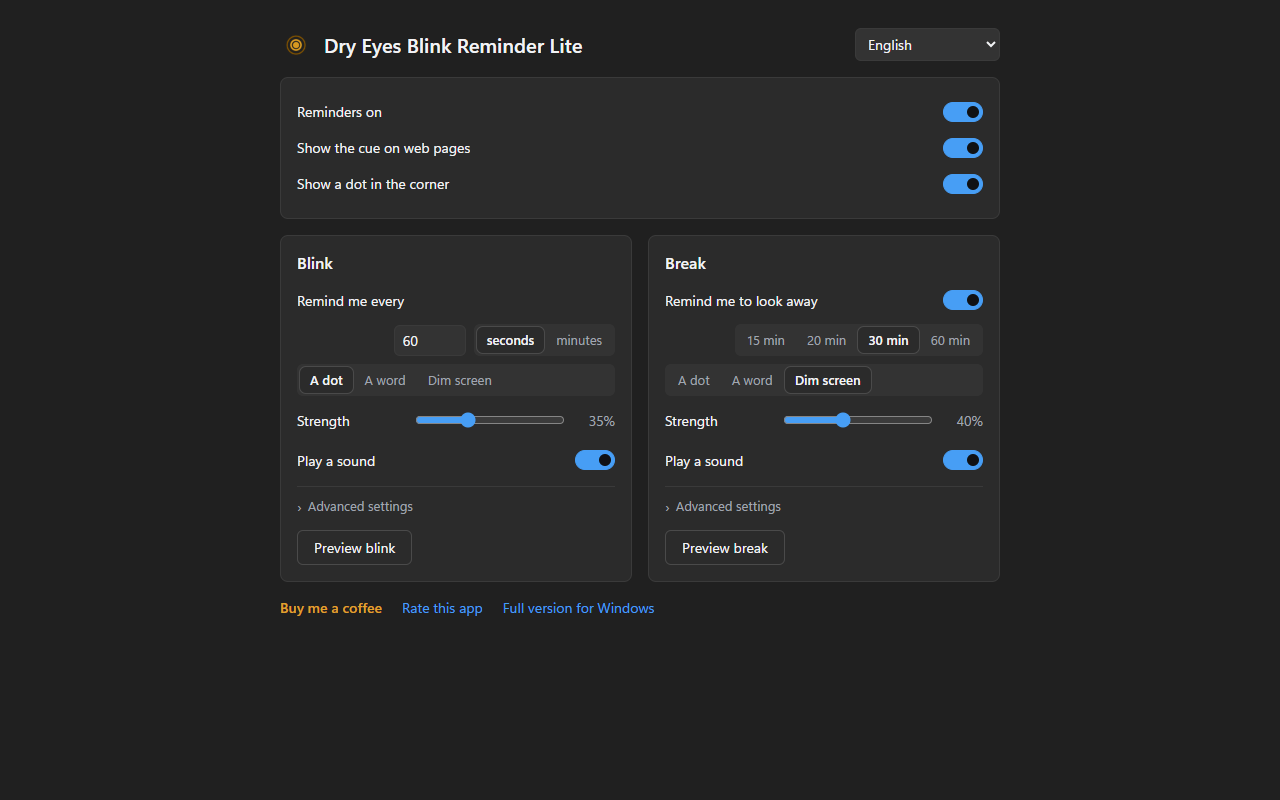
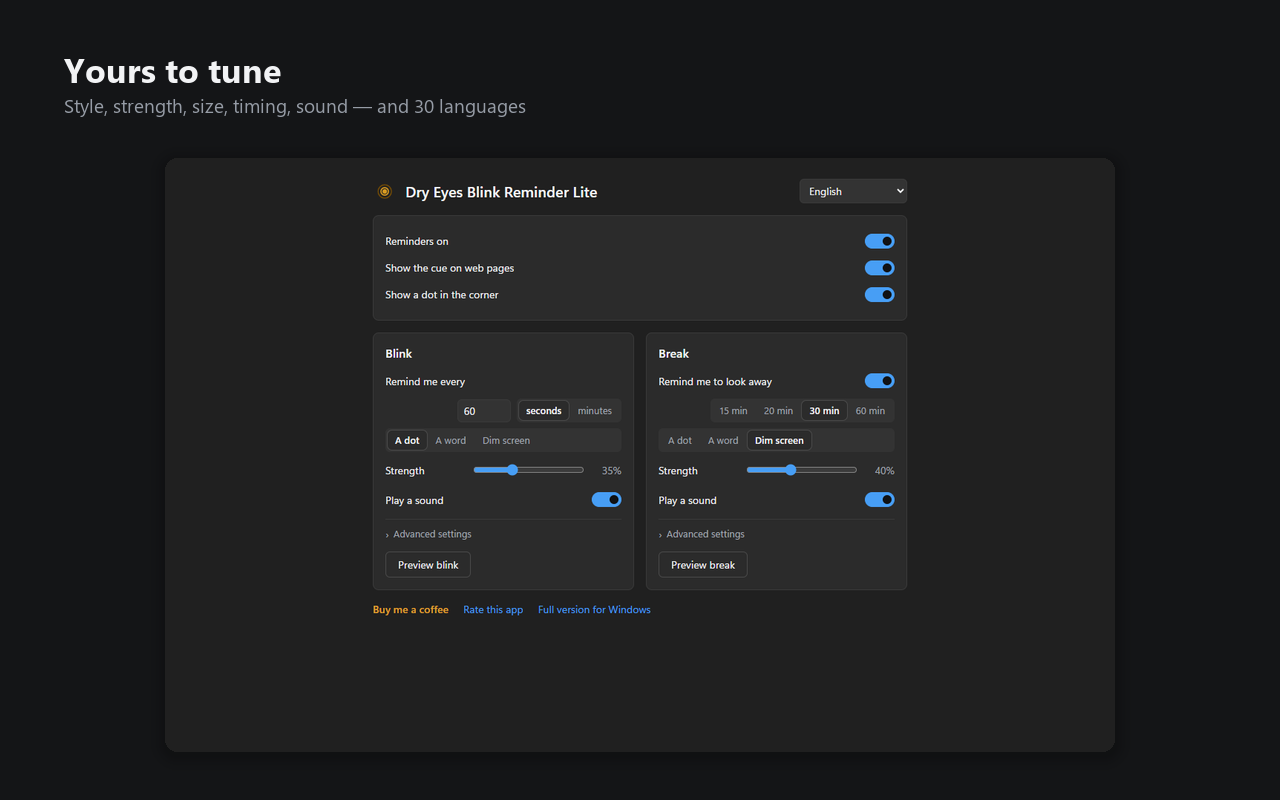
Store screenshots: say what each one is
A lime circle over an article could be anything. Each frame now sits on a
dark card under one line naming it, which is what the Windows listing does
by putting BLINK across its own.

The demo page is dark too. The cue's default is a 34% wash, which on a white
page is honestly faint and in a thumbnail invisible; on a dark page the same
default reads as it really is, and the text still shows through it, which is
the whole claim.

diff --git a/chrome/e2e/store-shots.js b/chrome/e2e/store-shots.js
@@ -7,7 +7,8 @@
 // access in its manifest, because a screenshot cannot click Chrome's prompt.
 //
 // It shoots the product, not a mock-up: the real cue, over a real page, at
-// the settings the extension actually ships with.
+// the settings the extension actually ships with. These are the raw frames;
+// store/make_chrome_assets.py lays them out and captions them.
 
 import { spawn } from "node:child_process";
 import { createServer } from "node:http";
@@ -38,15 +39,19 @@ writeFileSync(join(ext, "manifest.json"), JSON.stringify(manifest, null, 2));
 // listing is someone else's trade mark.
 const PAGE = `<!doctype html><meta charset="utf-8"><title>An article</title>
 <style>
- :root { color-scheme: light }
- body { margin: 0; background: #fff; color: #1b1f24;
+ /* Dark, because that is where the cue's own default strength reads as it
+    really is. On a white page a 34% lime wash is honestly faint, and a
+    listing image that has to be squinted at tells nobody anything. */
+ :root { color-scheme: dark }
+ body { margin: 0; background: #14171a; color: #c3ccd6;
         font: 16px/1.75 Georgia, "Times New Roman", serif; }
- header { border-bottom: 1px solid #e6e8eb; padding: 14px 0;
-          font: 600 13px/1 system-ui, sans-serif; color: #6b7280;
+ header { border-bottom: 1px solid #262b31; padding: 14px 0;
+          font: 600 13px/1 system-ui, sans-serif; color: #7d8794;
           letter-spacing: .14em; text-transform: uppercase; }
  main { max-width: 640px; margin: 0 auto; padding: 0 24px 60px; }
- h1 { font: 700 34px/1.25 system-ui, sans-serif; margin: 36px 0 6px; }
- .by { color: #6b7280; font: 14px/1 system-ui, sans-serif; margin-bottom: 28px; }
+ h1 { font: 700 34px/1.25 system-ui, sans-serif; margin: 36px 0 6px;
+      color: #e8eef5; }
+ .by { color: #7d8794; font: 14px/1 system-ui, sans-serif; margin-bottom: 28px; }
  p { margin: 0 0 20px; }
 </style>
 <main>
@@ -145,13 +150,13 @@ try {
   // 1. the blink cue, at the strength it ships with
   await evaluate(swS, "__blinkReminder.deliver('blink', { manual: true })");
   await sleep(700);
-  await shot(page.sessionId, "1-blink-cue");
+  await shot(page.sessionId, "1-blink-cue-raw");
   await sleep(3000);
 
   // 2. the break, which dims the whole page
   await evaluate(swS, "__blinkReminder.deliver('break', { manual: true })");
   await sleep(1400);
-  await shot(page.sessionId, "2-break");
+  await shot(page.sessionId, "2-break-raw");
   await sleep(4000);
 
   // 3. the corner dot, saying it is running
@@ -163,7 +168,7 @@ try {
   // 4. the settings
   const opts = await openTab(`chrome-extension://${id}/options.html`);
   await sleep(900);
-  await shot(opts.sessionId, "4-settings");
+  await shot(opts.sessionId, "4-settings-raw");
 
   // 5. the pop-up, at its own size, for compositing
   const pop = await openTab(`chrome-extension://${id}/popup.html`, 320, 430);

diff --git a/store/make_chrome_assets.py b/store/make_chrome_assets.py
@@ -1,17 +1,17 @@
-"""Compose the Chrome Web Store listing images from the raw captures.
+"""Lay out and caption the Chrome Web Store listing images.
 
-    py store/make_chrome_assets.py
+    node chrome/e2e/store-shots.js     # the raw frames, from a real Chrome
+    py store/make_chrome_assets.py     # this: composes, captions, writes
 
-chrome/e2e/store-shots.js takes the screenshots in a real headless Chrome;
-two of them need composing before they can carry a listing tile, and the
-promo tile is drawn here from the app's own icon.
+A screenshot of a quiet app says nothing on its own -- a lime circle over an
+article could be anything. Each frame is set on a dark card under one line
+saying what it is, the way the Windows listing puts BLINK across its own.
 
-Everything lands in store/chrome/. The numbered PNGs are the screenshots to
-upload, 1280x800 each; the "-raw" files are the untouched captures, kept so
-this can be re-run without taking them again.
+Everything lands in store/chrome/. The numbered PNGs are what gets uploaded,
+1280x800 each; the "-raw" files are the untouched captures, kept so this can
+be re-run without taking them again.
 """
 
-import io
 import os
 import sys
 
@@ -23,27 +23,39 @@ sys.path.insert(0, REPO)
 from PIL import Image, ImageDraw, ImageFont          # noqa: E402
 
 W, H = 1280, 800
-INK = (26, 29, 35)
+GROUND = (20, 21, 23)
+TEXT = (242, 243, 245)
+MUTED = (150, 156, 166)
 DARK = (32, 32, 32)
-MUTED = (160, 166, 176)
+
+# Each frame, and the one line that says what it is. Short enough to read in
+# the thumbnail strip, which is where most people see them.
+SHOTS = [
+    ("1-blink-cue", "A gentle cue to blink", "Click and type straight through it"),
+    ("4-settings", "Yours to tune", "Style, strength, size, timing, sound \u2014 and 30 languages"),
+    ("5-popup", "One click from the toolbar", "On, off, snooze, or blink now"),
+    ("2-break", "And a reminder to look away", "On the hour and the half hour"),
+    ("3-corner-dot", "A small dot says it is running", "Switch it off if you would rather not see it"),
+]
 
 
 def font(size, bold=False):
-    """Segoe UI if this machine has it, the default bitmap face if not."""
-    for name in (("segoeuib.ttf", "seguisb.ttf") if bold else ("segoeui.ttf",)):
+    """Segoe UI if this machine has it, the default face if not."""
+    names = ("segoeuib.ttf", "seguisb.ttf") if bold else ("segoeui.ttf",)
+    for name in names:
         path = os.path.join(os.environ.get("WINDIR", r"C:\Windows"), "Fonts", name)
         if os.path.exists(path):
             return ImageFont.truetype(path, size)
     return ImageFont.load_default(size)
 
 
-def rounded_shadow(base, box, radius=10, spread=18):
+def rounded_shadow(base, box, radius=10, spread=18, strength=42):
     """A soft shadow under `box`, drawn straight onto `base`."""
     x0, y0, x1, y1 = box
     layer = Image.new("RGBA", base.size, (0, 0, 0, 0))
     d = ImageDraw.Draw(layer)
     for i in range(spread, 0, -1):
-        a = int(42 * (1 - i / float(spread)) ** 2)
+        a = int(strength * (1 - i / float(spread)) ** 2)
         d.rounded_rectangle((x0 - i, y0 - i + 3, x1 + i, y1 + i + 3),
                             radius + i, fill=(0, 0, 0, a))
     base.alpha_composite(layer)
@@ -73,18 +85,41 @@ def save(img, name):
     print("  %s  %dx%d" % (name, img.width, img.height))
 
 
-# -- 3. the corner dot, with the corner magnified -----------------------------
+def slide(frame, title, note):
+    """One frame on a dark card, under a line saying what it is."""
+    card = Image.new("RGBA", (W, H), GROUND + (255,))
+    d = ImageDraw.Draw(card)
+    d.text((64, 46), title, font=font(34, True), fill=TEXT)
+    d.text((64, 92), note, font=font(19), fill=MUTED)
+
+    # Scaled to leave room for the caption, and kept in proportion: a browser
+    # window stretched to fit would be the one dishonest thing here.
+    inner_w, inner_h = W - 128, H - 206
+    k = min(inner_w / float(frame.width), inner_h / float(frame.height))
+    small = frame.resize((int(frame.width * k), int(frame.height * k)), Image.LANCZOS)
+    at = ((W - small.width) // 2, 158)
+    box = (at[0], at[1], at[0] + small.width, at[1] + small.height)
+    rounded_shadow(card, box, 12, 22, 60)
+    mask = Image.new("L", small.size, 0)
+    ImageDraw.Draw(mask).rounded_rectangle((0, 0, small.width - 1, small.height - 1),
+                                           12, fill=255)
+    card.paste(small, at, mask)
+    return card
+
+
+# -- the two frames that need composing before they are captioned -------------
+
 page = shot("3-corner-dot-raw.png")
 # The dot sits 20 in from the right, 14 up from the bottom and 9 across, so
-# the crop is drawn tight around it -- magnifying an inch of blank page
-# would say nothing.
+# the crop is drawn tight around it -- magnifying an inch of blank page would
+# say nothing.
 inset(page, (W - 52, H - 46, W - 4, H - 4), 8, (W - 500, H - 440))
-save(page, "3-corner-dot.png")
+page.convert("RGB").save(os.path.join(OUT, "3-corner-dot-composed.png"))
 
-# -- 5. the pop-up, on the page it belongs over -------------------------------
-back = shot("1-blink-cue.png")
-# Dimmed, so the pop-up is what the eye lands on.
-back.alpha_composite(Image.new("RGBA", back.size, (255, 255, 255, 120)))
+back = shot("1-blink-cue-raw.png")
+# Dimmed, so the pop-up is what the eye lands on. Toward black, since the
+# page behind it is dark.
+back.alpha_composite(Image.new("RGBA", back.size, (0, 0, 0, 120)))
 pop = shot("5-popup-raw.png")
 at = (W - pop.width - 70, 20)
 rounded_shadow(back, (at[0], at[1], at[0] + pop.width, at[1] + pop.height), 12, 26)
@@ -92,26 +127,36 @@ back.paste(pop, at)
 ImageDraw.Draw(back).rounded_rectangle(
     (at[0], at[1], at[0] + pop.width - 1, at[1] + pop.height - 1), 12,
     outline=(90, 95, 104, 255), width=1)
-save(back, "5-popup.png")
+back.convert("RGB").save(os.path.join(OUT, "5-popup-composed.png"))
+
+# -- the five slides ----------------------------------------------------------
+
+SOURCE = {"3-corner-dot": "3-corner-dot-composed.png",
+          "5-popup": "5-popup-composed.png"}
+for name, title, note in SHOTS:
+    save(slide(shot(SOURCE.get(name, name + "-raw.png")), title, note), name + ".png")
+for tmp in SOURCE.values():
+    os.remove(os.path.join(OUT, tmp))
 
 # -- the 440x280 promo tile ---------------------------------------------------
+
 import blink_reminder                                  # noqa: E402
 
 tile = Image.new("RGBA", (440, 280), DARK + (255,))
 icon = blink_reminder.app_icon(96).convert("RGBA")
 tile.paste(icon, (40, 58), icon)
 d = ImageDraw.Draw(tile)
-d.text((40, 174), "Dry Eyes", font=font(27, True), fill=(242, 243, 245))
-d.text((40, 206), "Blink Reminder Lite", font=font(27, True), fill=(242, 243, 245))
+d.text((40, 174), "Dry Eyes", font=font(27, True), fill=TEXT)
+d.text((40, 206), "Blink Reminder Lite", font=font(27, True), fill=TEXT)
 d.text((42, 244), "A gentle cue to blink", font=font(15), fill=MUTED)
 save(tile, "promo-440x280.png")
 
 # -- the 128x128 store icon ---------------------------------------------------
 # The Store reads this from the package itself, so this copy exists only for a
 # form that asks for the file. Drawn from the same code, so it cannot drift
-# from the icon the extension actually ships -- and written with its alpha
-# kept, not through save(), which flattens to RGB and would leave the ring
-# sitting on a black square.
+# from the icon the extension ships -- and written with its alpha kept, not
+# through save(), which flattens to RGB and would leave the ring on a black
+# square.
 _icon = blink_reminder.app_icon(128).convert("RGBA")
 _icon.save(os.path.join(OUT, "icon-128.png"))
 print("  icon-128.png  %dx%d" % _icon.size)

diff --git a/store/chrome/LISTING.md b/store/chrome/LISTING.md
@@ -13,11 +13,16 @@ Only the long description below is English-only.
 |---|---|
 | Screenshots (1280×800, in this order) | `1-blink-cue.png`, `4-settings.png`, `5-popup.png`, `2-break.png`, `3-corner-dot.png` |
 | Small promo tile (440×280) | `promo-440x280.png` |
-| Icon (128×128) | taken from the package |
+| Icon (128×128) | taken from the package; `icon-128.png` if a field asks for the file |
 
-The corner-dot shot is the weakest — the dot really is nine pixels on an
-empty corner, so most of the frame is blank page. Four screenshots is a fine
-listing; drop it if it looks thin.
+Each carries a line saying what it is, since a lime circle over an article
+could otherwise be anything. The demo page is dark because that is where the
+cue's own default strength reads as it really is — on a white page a 34%
+wash is honestly faint, and a listing image nobody can see tells nobody
+anything.
+
+The `-raw` files are the untouched captures. Re-run the two commands at the
+foot of this file to rebuild everything from them.
 
 ## Category
 
